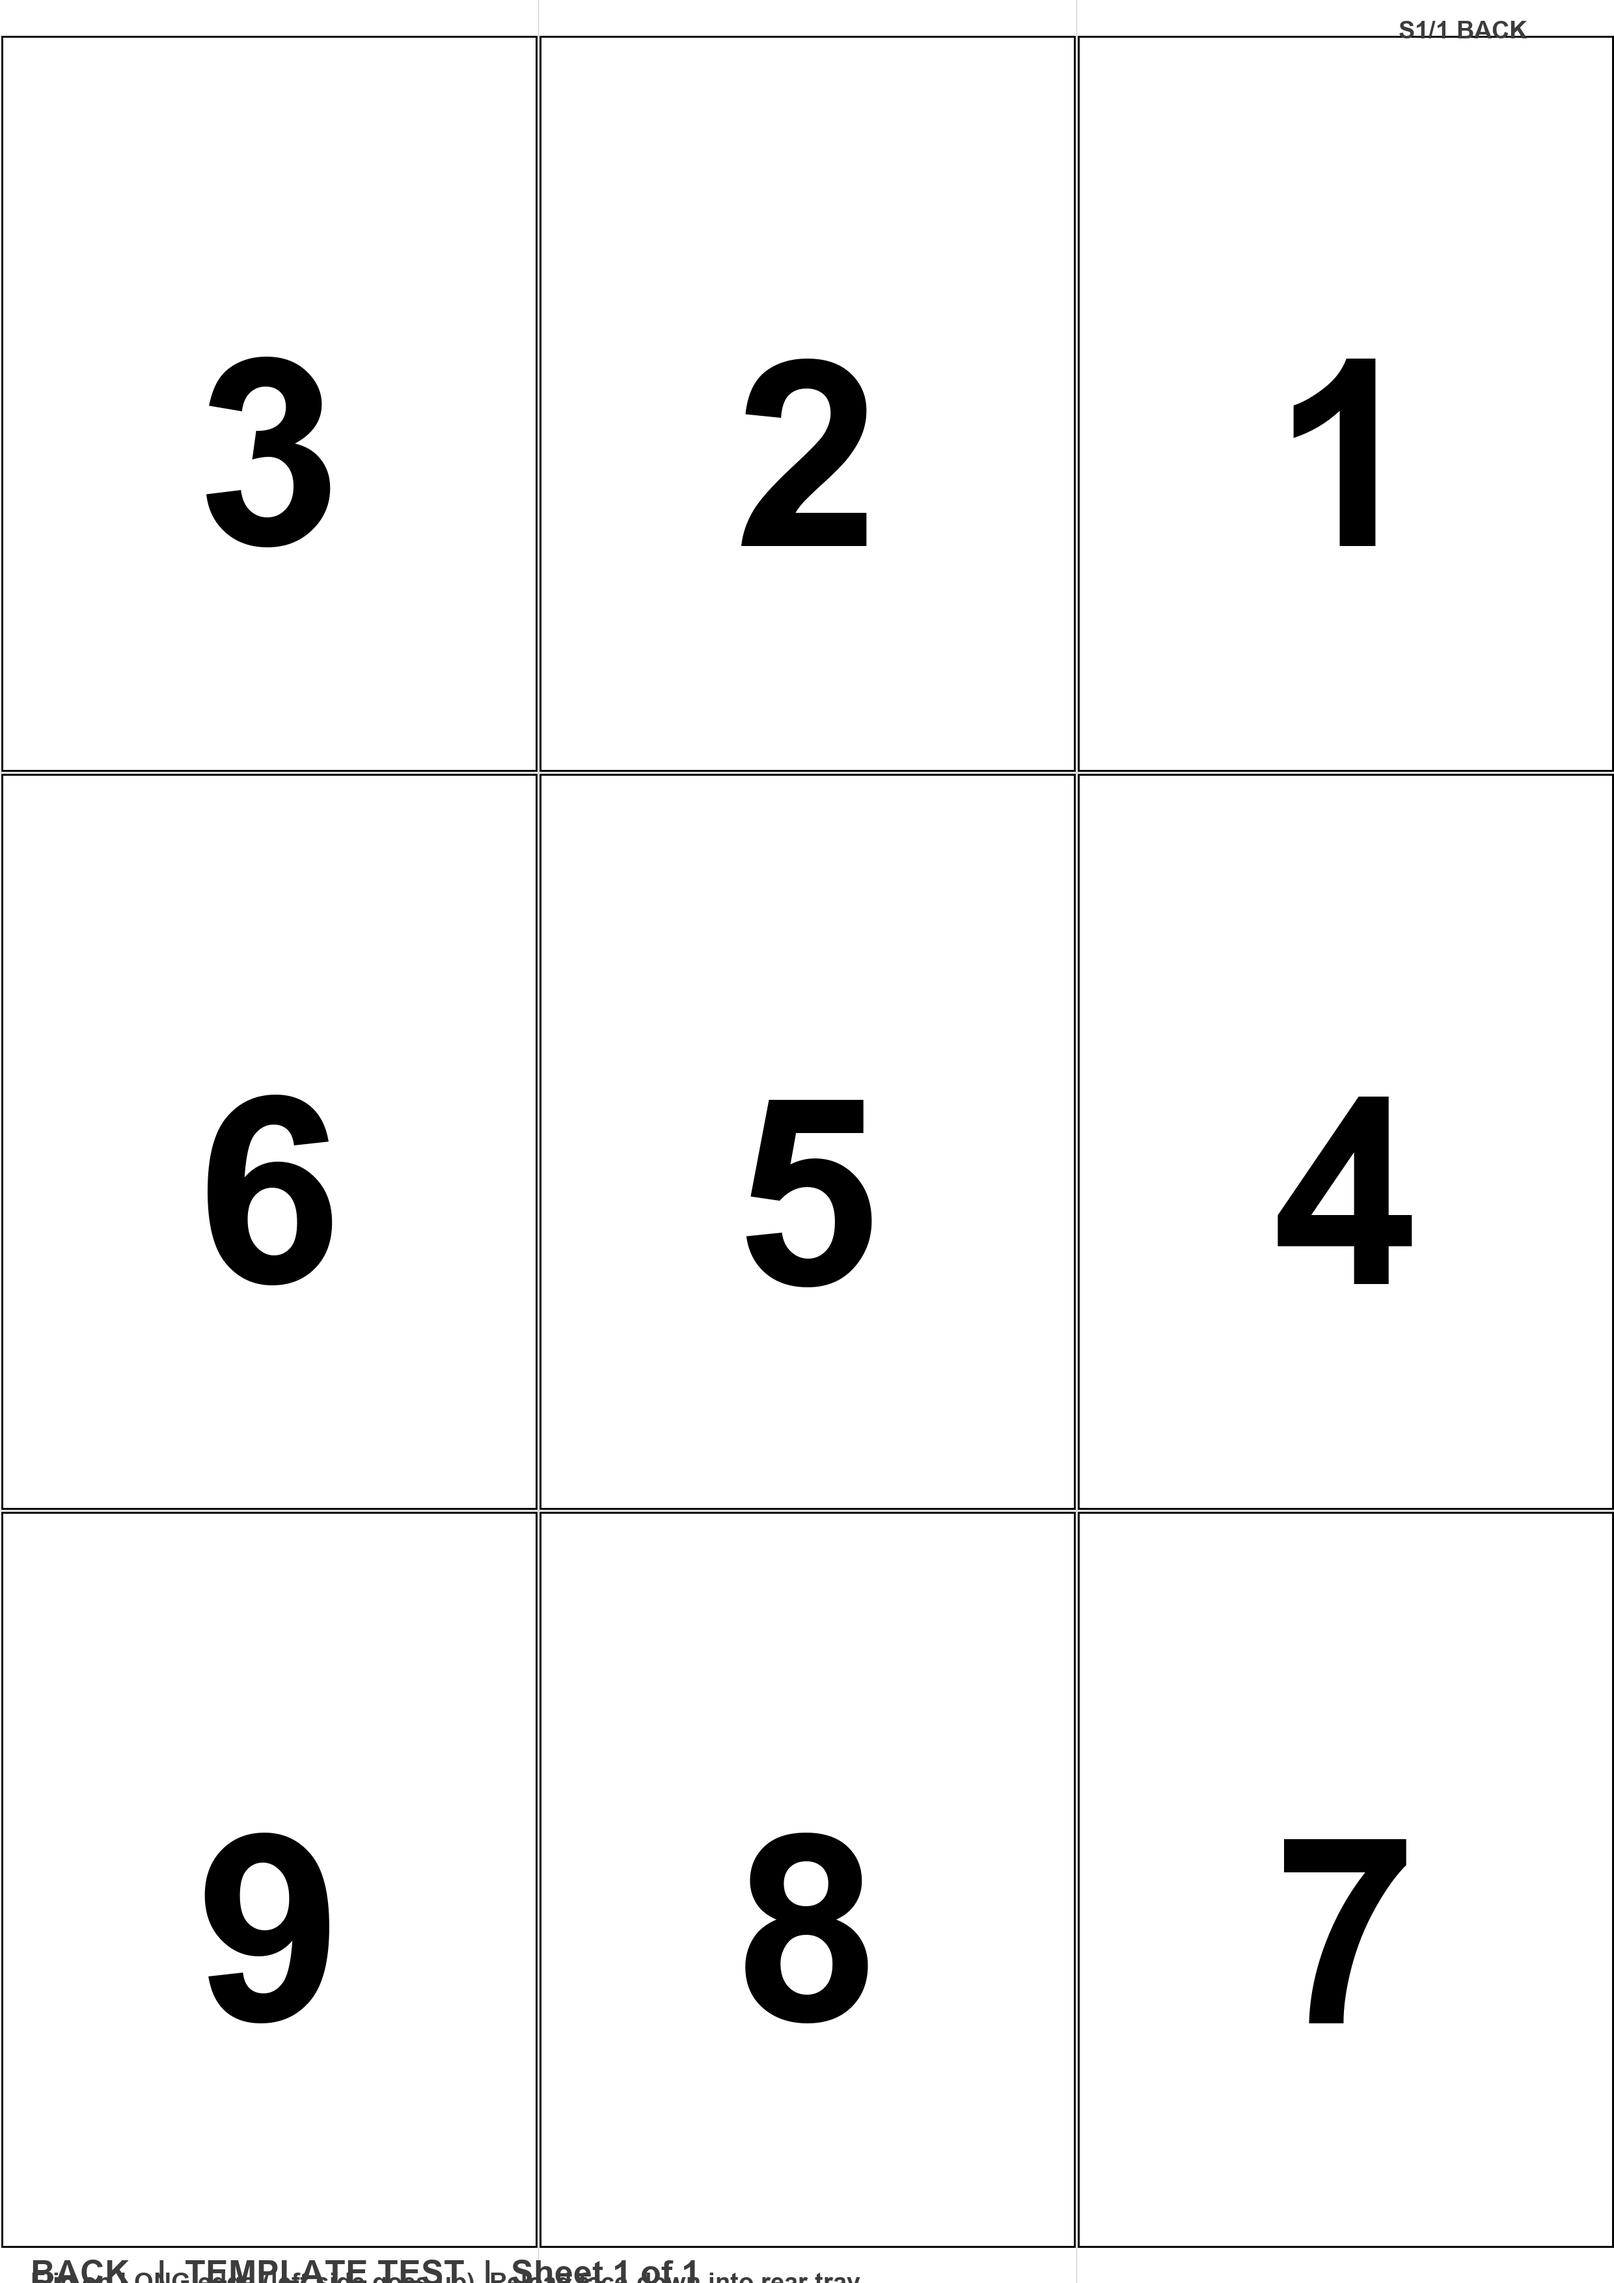
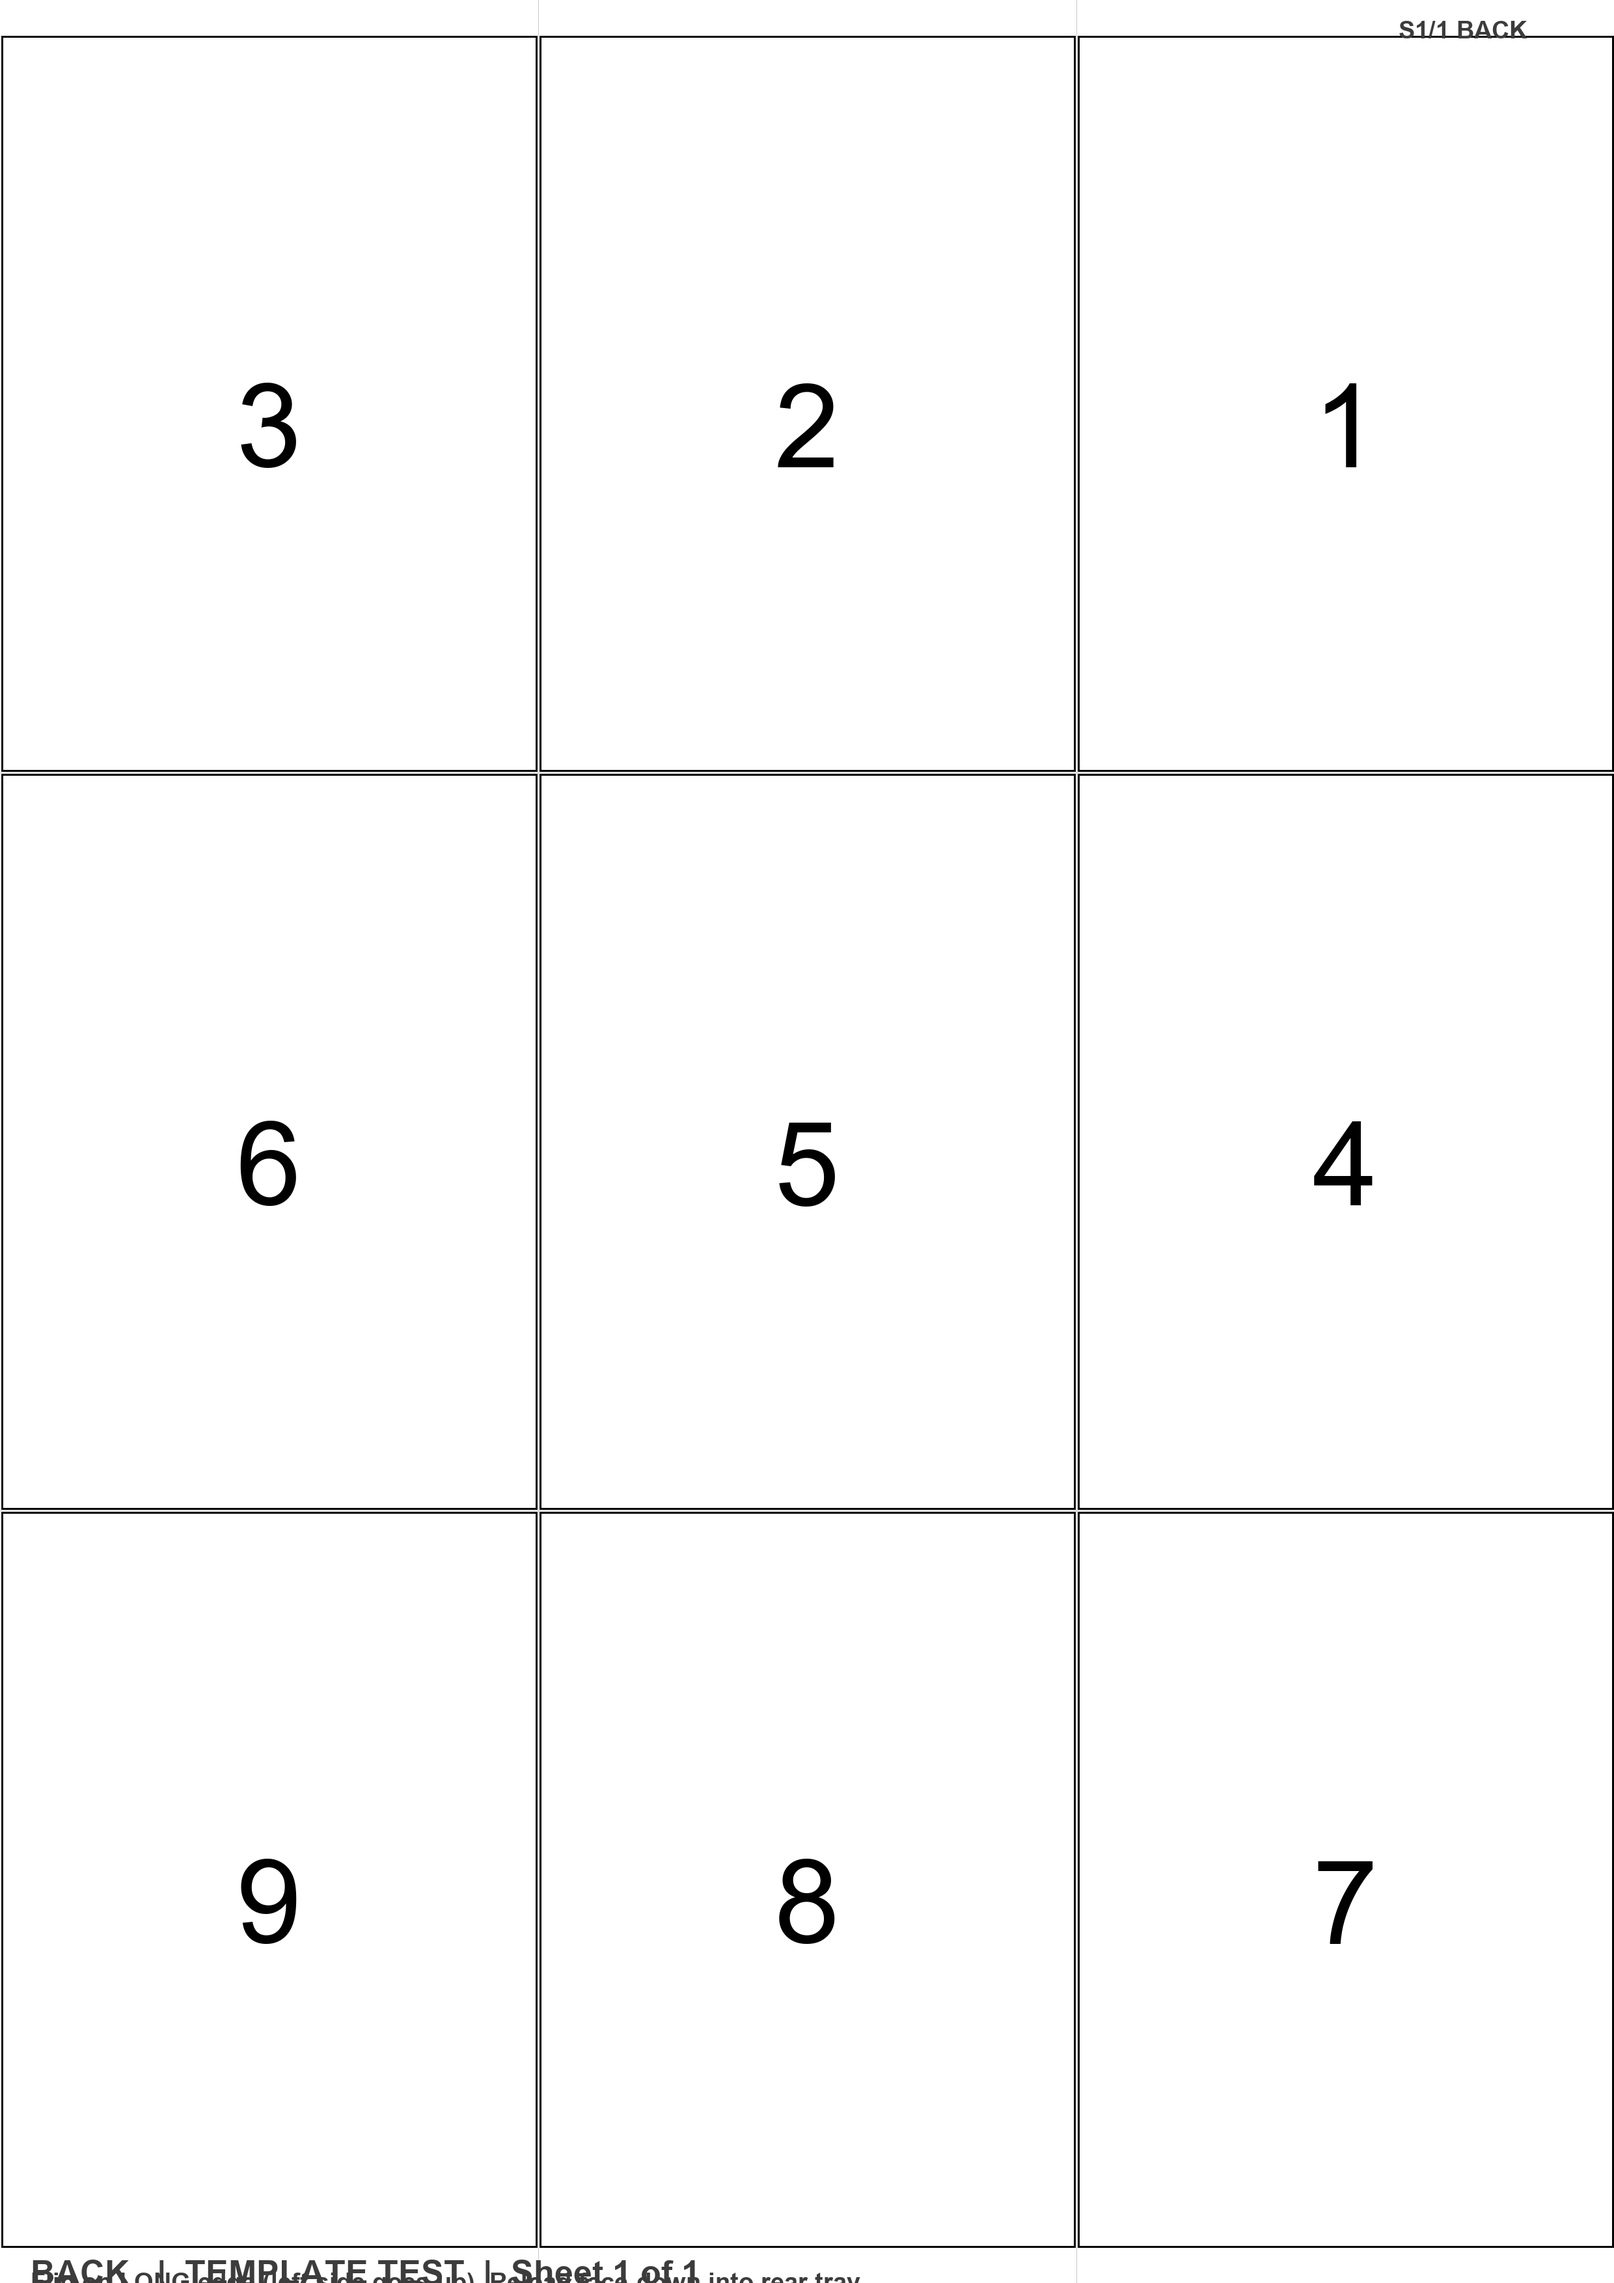
Printing: template font -- regular Arial 180px, not bold

diff --git a/games/arkham-lcg/printing/make_sheets.py b/games/arkham-lcg/printing/make_sheets.py
@@ -165,7 +165,7 @@ def make_template_sheet(output_dir: Path, total_cards=9):
     """Generate a minimal ink test template -- white cards with number and outline only."""
     output_dir.mkdir(parents=True, exist_ok=True)
 
-    font = ImageFont.truetype(r"C:\Windows\Fonts\arialbd.ttf", 400)
+    font = ImageFont.truetype(r"C:\Windows\Fonts\arial.ttf", 180)
 
     for side in ["front", "back"]:
         sheet = make_blank(A4_W, A4_H, (255, 255, 255))
